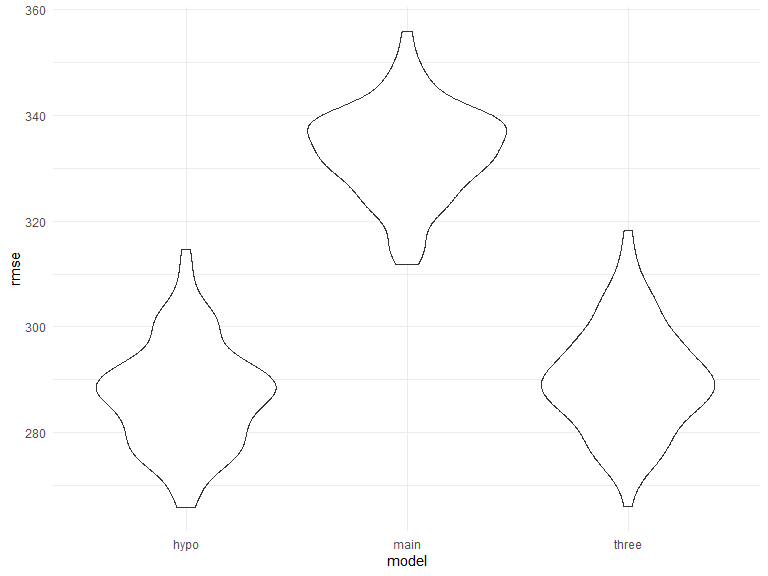
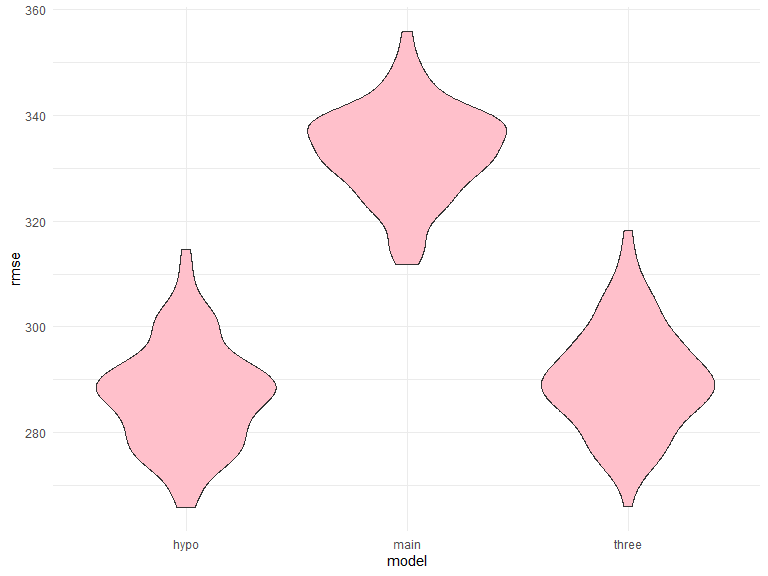
Final version of HW6

Changed region(s): [[0.6875, 0.4062, 0.9375, 0.875], [0.375, 0.0625, 0.6562, 0.4688], [0.125, 0.4375, 0.375, 0.9062]]

diff --git a/p8105_hw6_yy3295.md b/p8105_hw6_yy3295.md
@@ -154,7 +154,7 @@ boot_straps =
   weather_df |>
   modelr::bootstrap(n = 5000) |>
   mutate(
-    models = map(strap, \(df) lm(tmax ~ tmin, data = df)),
+    models = map(strap, \(df) lm(tmax ~ tmin + prcp, data = df)),
     results_1 = map(models, broom::tidy),
     results_2 = map(models, broom::glance)) |>
   select(-strap, -models)
@@ -174,12 +174,12 @@ Plot the distribution of your estimates (r^2)
 
 ``` r
 r2 |> 
-  ggplot(aes(x = r.squared)) + geom_density()
+  ggplot(aes(x = r.squared)) + geom_density(fill = "pink")
 ```
 
 <img src="p8105_hw6_yy3295_files/figure-gfm/unnamed-chunk-4-1.png" width="90%" />
 
-From the plot we can tell that it is a left skewed distribution.
+From the plot we can tell that it is a normal distribution.
 
 Identify the 2.5% and 97.5% quantiles to provide a 95% confidence
 interval (r^2)
@@ -195,11 +195,11 @@ confidence_interval_r
 ```
 
     ##      2.5%     97.5% 
-    ## 0.8861342 0.9382599
+    ## 0.8885495 0.9406812
 
-The 2.5% quantile is 0.886, and 97.5% quantile is 0.938.
+The 2.5% quantile is 0.889, and 97.5% quantile is 0.941.
 
-The 95% confidence interval is (0.886, 0.938).
+The 95% confidence interval is (0.889, 0.941).
 
 For each bootstrap sample, produce estimates (log(b1 \* b2))
 
@@ -209,8 +209,8 @@ logb =
   select(-results_2) |>
   unnest(results_1) |>
   select(.id, term, estimate) |>
-  mutate(term = ifelse(term == "(Intercept)", "b1",
-                       ifelse(term == "tmin", "b2", term))) |>
+  mutate(term = ifelse(term == "tmin", "b1",
+                       ifelse(term == "prcp", "b2", term))) |>
   pivot_wider(names_from = term,
               values_from = estimate) |>
   mutate(log_new = log(b1 * b2))
@@ -220,32 +220,32 @@ Plot the distribution of your estimates (log(b1 \* b2))
 
 ``` r
 logb |> 
-  ggplot(aes(x = log_new)) + geom_density()
+  ggplot(aes(x = log_new)) + geom_density(fill = "pink")
 ```
 
 <img src="p8105_hw6_yy3295_files/figure-gfm/unnamed-chunk-7-1.png" width="90%" />
 
-From the plot we can tell that it is a normal distribution.
+From the plot we can tell that it is a left-skewed distribution.
 
 Identify the 2.5% and 97.5% quantiles to provide a 95% confidence
 interval (log(b1 \* b2))
 
 ``` r
-lower_quantile_log <- quantile(logb$log_new, 0.025)
+lower_quantile_log <- quantile(logb$log_new, 0.025, na.rm = TRUE)
 
-upper_quantile_log <- quantile(logb$log_new, 0.975)
+upper_quantile_log <- quantile(logb$log_new, 0.975, na.rm = TRUE)
 
 confidence_interval_log <- c(lower_quantile_log, upper_quantile_log)
 
 confidence_interval_log
 ```
 
-    ##     2.5%    97.5% 
-    ## 2.048842 2.133321
+    ##      2.5%     97.5% 
+    ## -8.981559 -4.601673
 
-The 2.5% quantile is 2.049, and 97.5% quantile is 2.133.
+The 2.5% quantile is -8.982, and 97.5% quantile is -4.602.
 
-The 95% confidence interval is (2.049, 2.133).
+The 95% confidence interval is (-8.982, -4.602).
 
 ### Question 3
 
@@ -358,7 +358,7 @@ cv_df |>
                values_to = "rmse",
                names_prefix = "rmse_") |>
   mutate(model = fct_inorder(model)) |>
-  ggplot(aes(x = model, y = rmse)) + geom_violin()
+  ggplot(aes(x = model, y = rmse)) + geom_violin(fill = "pink")
 ```
 
 <img src="p8105_hw6_yy3295_files/figure-gfm/unnamed-chunk-16-1.png" width="90%" />
